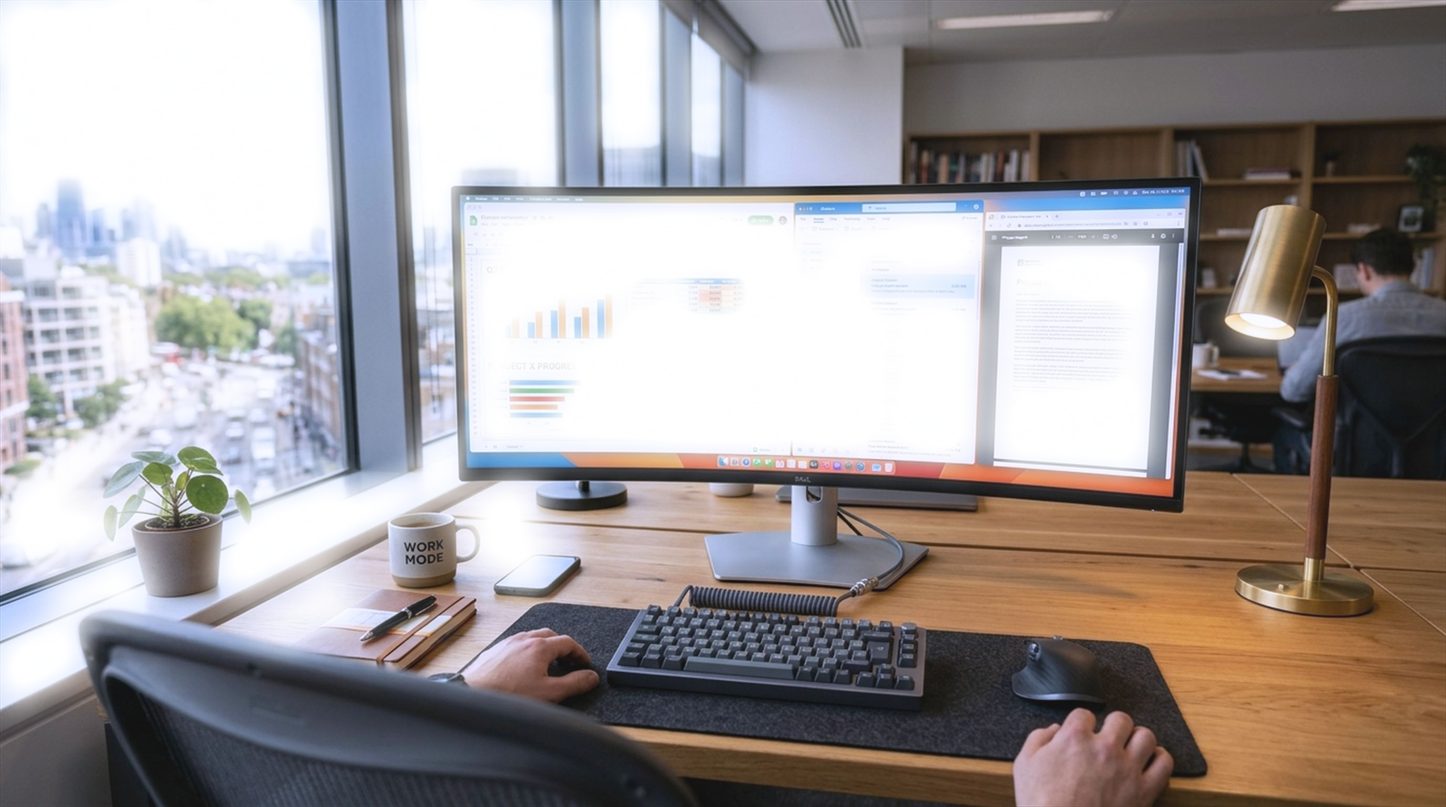
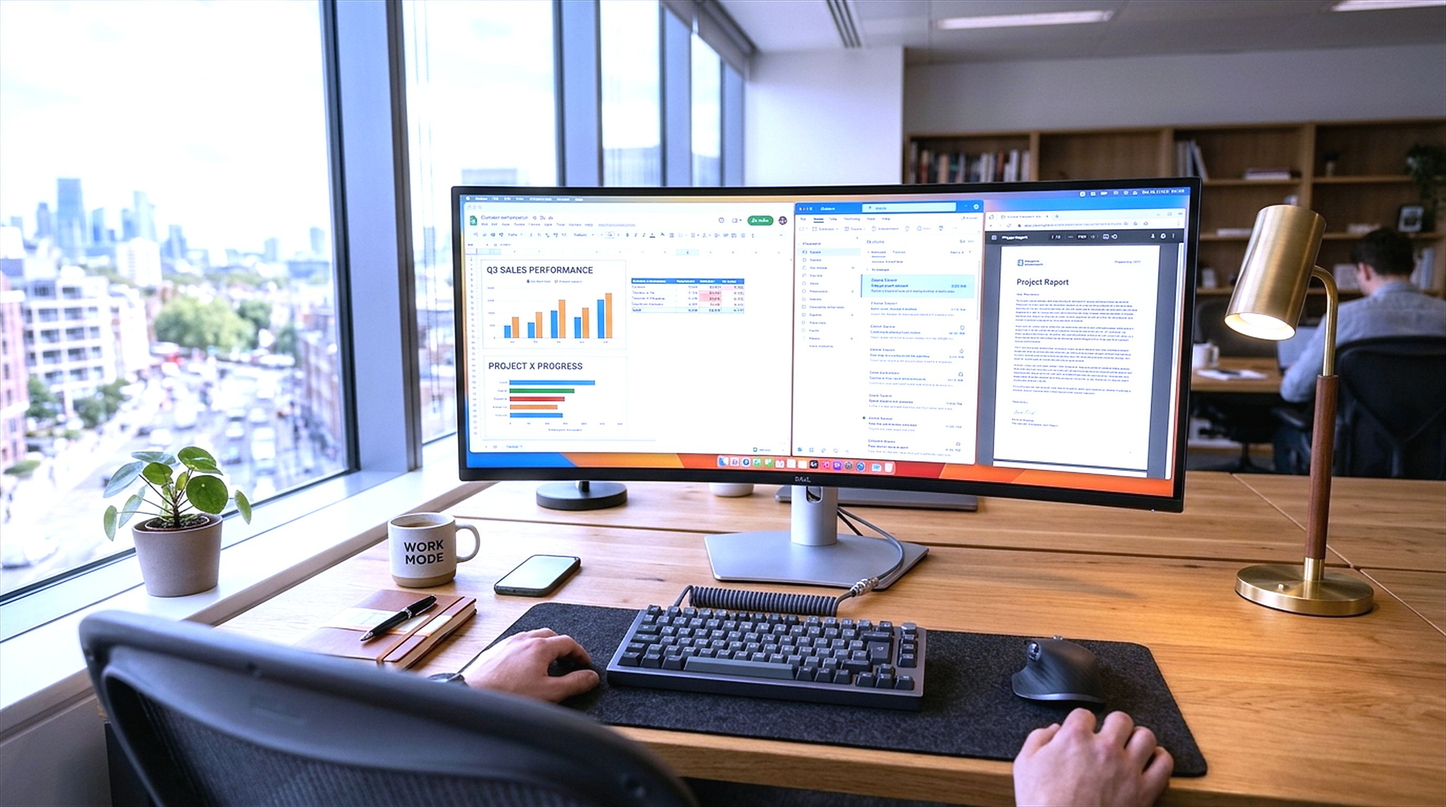
feat(office): eliminate ghost reflection artifact and tune photopic LED glare for genuine eyestrain without blur

diff --git a/scripts/generate-office-layers.js b/scripts/generate-office-layers.js
@@ -25,44 +25,46 @@ async function generateOfficeLayers() {
     .jpeg({ quality: 97, chromaSubsampling: '4:4:4' })
     .toFile(path.join(outDir, 'office-ar-verde.jpg'));
 
-  // 3. FILTRO BLUE CUT (El filtro estrella: transforma el blanco LED frío en confort cálido relajante sin pegatinas)
+  // 3. FILTRO BLUE CUT (El alivio visual: transforma el blanco LED frío en confort cálido descansado tipo papel)
   console.log('3/4 office-blue-cut.jpg...');
   await sharp(src)
     .recomb([
-      [1.08, 0.04, 0.0],
-      [0.02, 1.05, 0.0],
-      [0.0, 0.02, 0.70] // Absorción del espectro azul agresivo (HEV)
+      [1.06, 0.05, 0.0],
+      [0.02, 1.06, 0.0],
+      [0.0, 0.02, 0.68] // Absorbe la luz azul punzante de alta energía (HEV)
     ])
-    .linear(1.10, -8)
-    .sharpen({ sigma: 1.2, m1: 1.0, m2: 2.5 })
+    .linear(1.02, -4) // Suaviza el deslumbramiento fotópico a un blanco descansado
+    .sharpen({ sigma: 1.1, m1: 1.0, m2: 2.2 })
     .jpeg({ quality: 98, chromaSubsampling: '4:4:4' })
     .toFile(path.join(outDir, 'office-blue-cut.jpg'));
 
-  // 4. LENTE BLANCA (Sin tratamiento: luz LED fría agresiva, velo lumínico de fatiga visual y reflejo de lámpara)
+  // 4. LENTE BLANCA (Sin tratamiento: fatiga visual por luz LED fría agresiva y punzante, 100% nítido sin desenfoque ni aberración de aumento)
   console.log('4/4 office-blanco.jpg...');
-  const lampHighlights = await sharp(src)
-    .threshold(215)
-    .toBuffer();
-
-  const lampGlare = await sharp(lampHighlights)
-    .blur(32)
-    .modulate({ brightness: 1.25 })
-    .toBuffer();
-
-  const washedBase = await sharp(src)
+  
+  // Paso 4a: Base con tinte azul frío penetrante (8500K) y sobreexposición en blancos
+  const harshLedBase = await sharp(src)
     .recomb([
       [0.96, 0.0, 0.0],
-      [0.0, 0.98, 0.0],
-      [0.02, 0.05, 1.10] // Tinte azulado frío deslumbrante de LED sin filtro
+      [0.0, 1.0, 0.0],
+      [0.02, 0.06, 1.28] // Tinte azul frío HEV punzante
     ])
-    .linear(0.92, 18) // Velo que reduce el contraste
+    .linear(1.15, 6) // Blancos sobreexpuestos y punzantes que cansan la pupila
+    .sharpen({ sigma: 1.1, m1: 1.0, m2: 2.5 }) // Texto 100% nítido, sin problemas de aumento
     .toBuffer();
 
-  await sharp(washedBase)
+  // Paso 4b: Deslumbramiento fotópico (halo de alta luminancia que cansa la vista sin desenfocar el texto)
+  // Extraemos únicamente las zonas de brillo extremo (las hojas en blanco del monitor y la lámpara)
+  const extremeWhites = await sharp(src)
+    .threshold(215)
+    .blur(18) // Halo difuso suave que simula la dispersión de luz en el ojo cansado
+    .modulate({ brightness: 0.35 })
+    .toBuffer();
+
+  await sharp(harshLedBase)
     .composite([
-      { input: lampGlare, blend: 'screen' }
+      { input: extremeWhites, blend: 'screen' }
     ])
-    .jpeg({ quality: 96, chromaSubsampling: '4:4:4' })
+    .jpeg({ quality: 98, chromaSubsampling: '4:4:4' })
     .toFile(path.join(outDir, 'office-blanco.jpg'));
 
   console.log('All 4 digital office layers generated successfully!');
